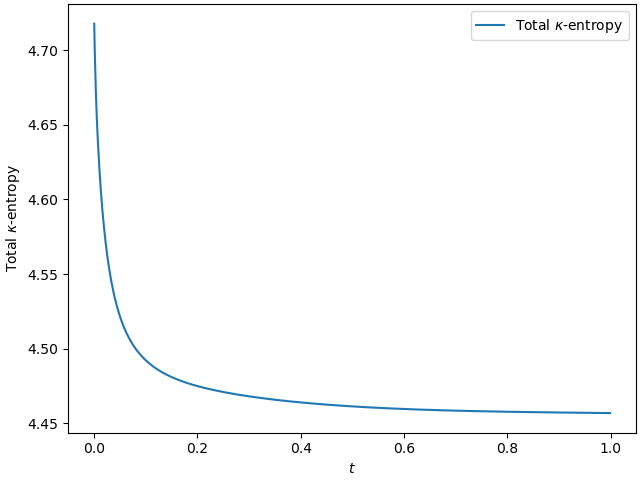
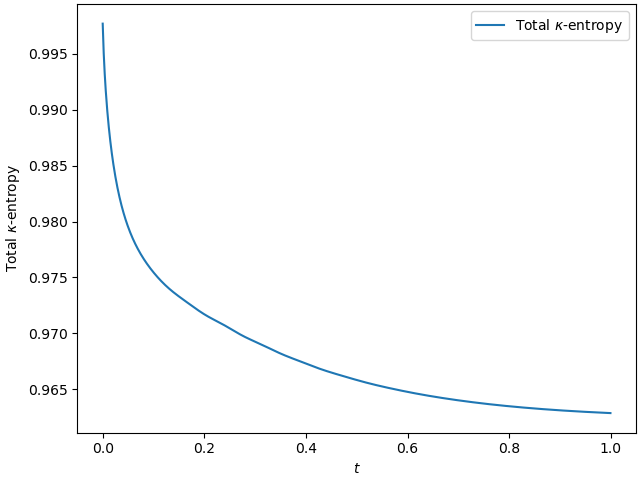
commit

diff --git a/solvers/solver_pressure_correction_1D.py b/solvers/solver_pressure_correction_1D.py
@@ -91,12 +91,12 @@ def v_cor(w, r1, r2, r3, r4, R, L, d, gm, dx):
 
 
 tf = 2.0
-kappa = 0.5
+kappa = 0.25
 nu = 1.0
 gamma = 2.0
 rho_initial_condition = fv.initial_condition.gaussian_rho
 u_initial_condition = fv.initial_condition.constant_u
-case = fv.computational_case(a = -2.0, b = 2.0, Tf = 0.5, N = 200, dt = 0.001, ng = 1)
+case = fv.computational_case(a = -2.0, b = 2.0, Tf = 0.5, N = 100, dt = 0.001, ng = 1)
 "-------initialization of the scheme--------------"
 a = case.a
 b = case.b
@@ -171,7 +171,7 @@ rho_init_d = np.empty(len(rho_init)+1, dtype=rho_init.dtype)
 rho_init_d[1:-1] = 0.5 * (rho_init[1:] + rho_init[:-1])          
 rho_init_d[0] = 0.5 * (rho_init[0] + rho_init[-1])   # left wrap
 rho_init_d[-1] = 0.5 * (rho_init[0] + rho_init[-1])  # right wrap to close periodicity
-E_0 = np.sum(np.pow(rho_init,gamma)) + np.sum(0.5 * 0.5 * kappa * nu * nu * (1.0 - kappa) * rho_init_d * v_init * v_init) + np.sum(0.5 * rho_init_d * w_0 * w_0)
+E_0 = np.sum(np.pow(rho_init,gamma)) + np.sum(0.5 * kappa * nu * nu * (1.0 - kappa) * rho_init_d * v_init * v_init) + np.sum(0.5 * rho_init_d * w_0 * w_0)
 E_0 = E_0 * cell_size
 #------------------------
 """Time-looping begins"""
@@ -323,7 +323,7 @@ for n in range(num_steps):
     v_init = v.copy()
     E = np.sum(np.pow(rho_0,gamma)) + np.sum(0.5 * kappa * nu * nu * (1.0 - kappa) * rho_0_d * v_init * v_init) + np.sum(0.5 * rho_0_d * w_0 * w_0)
     E = E * cell_size
-    energy[n] = E #abs(E_0 - E)/E_0
+    energy[n] = E/E_0
     tm[n] = dt * n
     print("step:", n)
 e = time.process_time()
